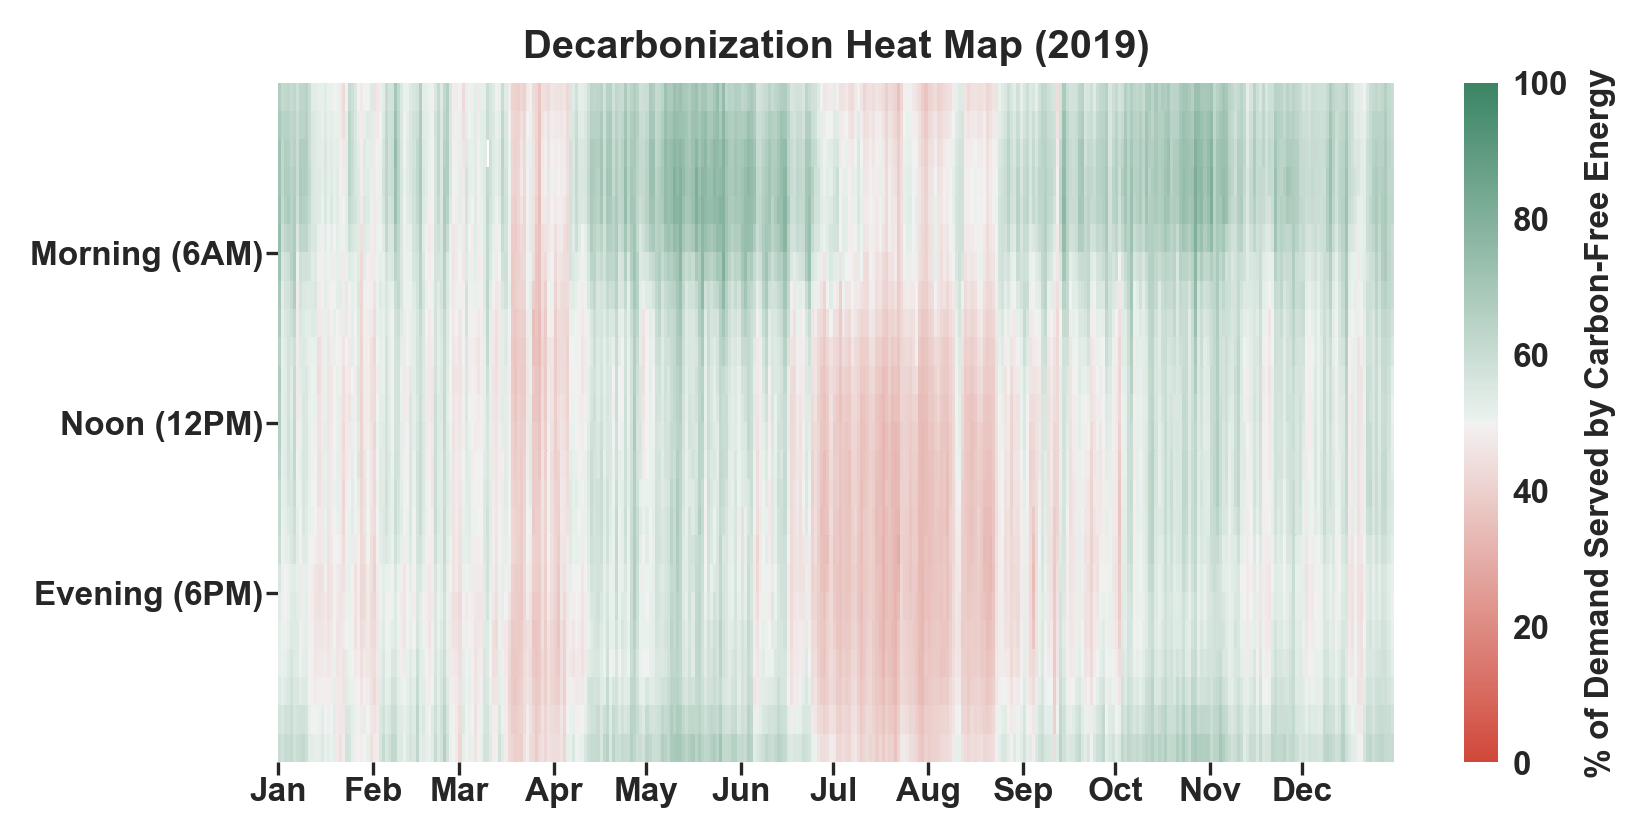
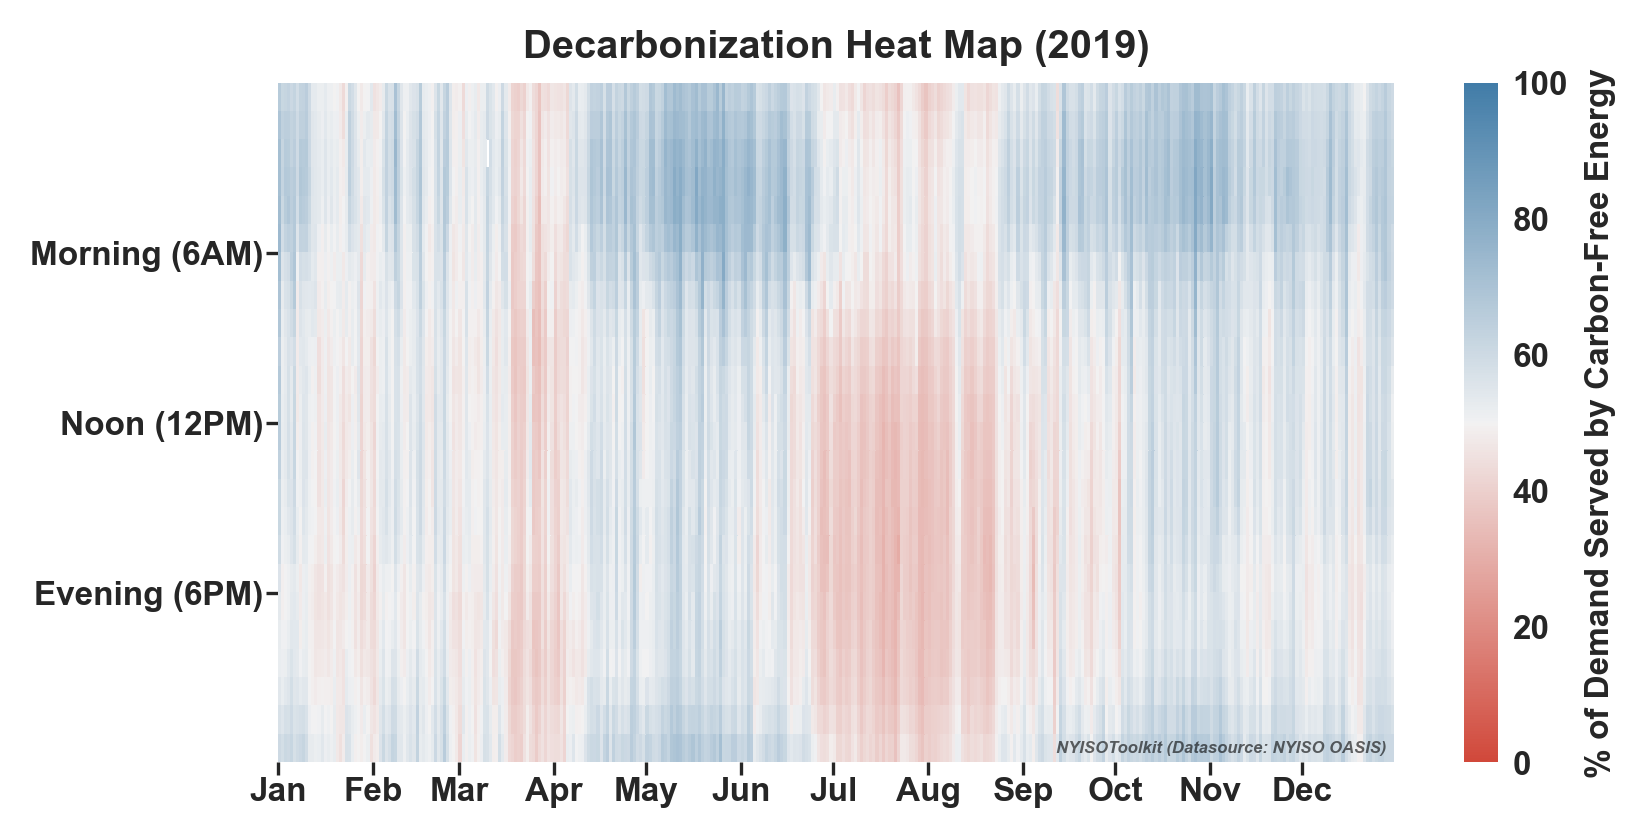
Adjusted decarbonization heat map to be color-blind friendly

diff --git a/nyisotoolkit/nyisovis/nyisovis.py b/nyisotoolkit/nyisovis/nyisovis.py
@@ -305,8 +305,9 @@ class NYISOVis:
         df['Hour'] = df.index.hour
         df = df.pivot_table(index='Hour', columns='Date', values=0) #TODO: Check: duplicate index warning with regular pivot, likely because in EST TIME.
         
+        #Plot
         fig, ax = plt.subplots(figsize=(6,3), dpi=300)
-        cmap = sns.diverging_palette(15, 150, as_cmap=True)
+        cmap = sns.diverging_palette(15, 240, as_cmap=True)
         ax = sns.heatmap(df, cmap=cmap, vmin=0, vmax=100, ax=ax,
                          cbar_kws={'label': '% of Demand Served by Carbon-Free Energy'})
         
@@ -325,6 +326,11 @@ class NYISOVis:
                  horizontalalignment='right')
         #both axes
         plt.setp(ax.xaxis.get_ticklines() + ax.yaxis.get_ticklines(), markersize=3)
+        
+        # NYISOToolkit label and source
+        ax.text(0.845, 0.015, 'NYISOToolkit (Datasource: NYISO OASIS)',
+                c='black', fontsize='4', fontstyle= 'italic', horizontalalignment='center',
+                alpha=0.6, transform=ax.transAxes)
                 
         #Save
         file = pl.Path(self.out_dir,f'{self.year}_decarbonization_heatmap.png')
